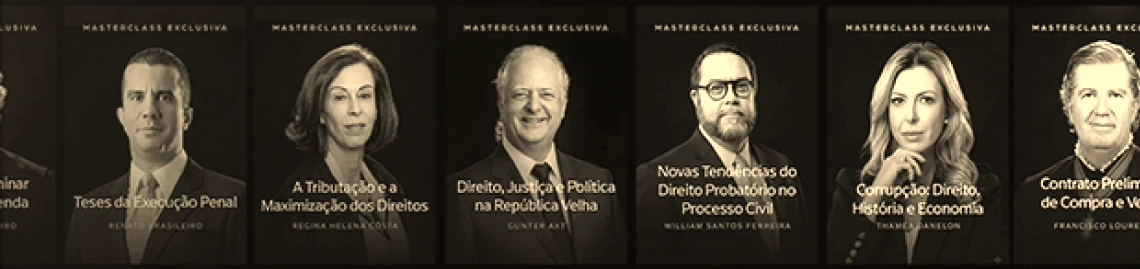
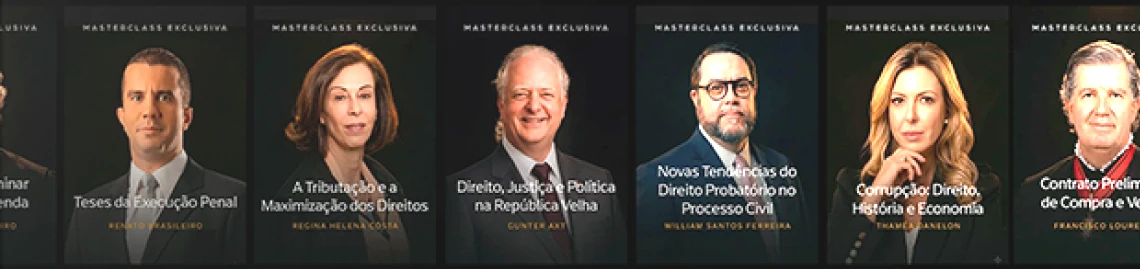
Fileiras do notebook: volta ao colorido, com luz uniforme

diff --git a/index.html b/index.html
@@ -117,9 +117,9 @@
   .fila{position:relative;display:block;width:100%;overflow:hidden}
   .fila.f1{height:34.55%}.fila.f2{height:37.62%}.fila.f3{height:27.83%}
   .pista{position:absolute;left:0;top:0;height:100%;width:285.6%;background-repeat:repeat-x;background-size:33.3333% 100%;will-change:transform;animation-timing-function:linear;animation-iteration-count:infinite}
-  .f1 .pista{background-image:url(img/fila-1.webp?v=3);animation:vai-dir 26s linear infinite 1.2s}
-  .f2 .pista{background-image:url(img/fila-2.webp?v=3);animation:vai-esq 22s linear infinite 1.2s}
-  .f3 .pista{background-image:url(img/fila-3.webp?v=3);animation:vai-dir 30s linear infinite 1.2s}
+  .f1 .pista{background-image:url(img/fila-1.webp?v=4);animation:vai-dir 26s linear infinite 1.2s}
+  .f2 .pista{background-image:url(img/fila-2.webp?v=4);animation:vai-esq 22s linear infinite 1.2s}
+  .f3 .pista{background-image:url(img/fila-3.webp?v=4);animation:vai-dir 30s linear infinite 1.2s}
   @keyframes vai-dir{from{transform:translateX(-33.3333%)}to{transform:translateX(0)}}
   @keyframes vai-esq{from{transform:translateX(0)}to{transform:translateX(-33.3333%)}}
   .js .pista{animation-play-state:paused}
